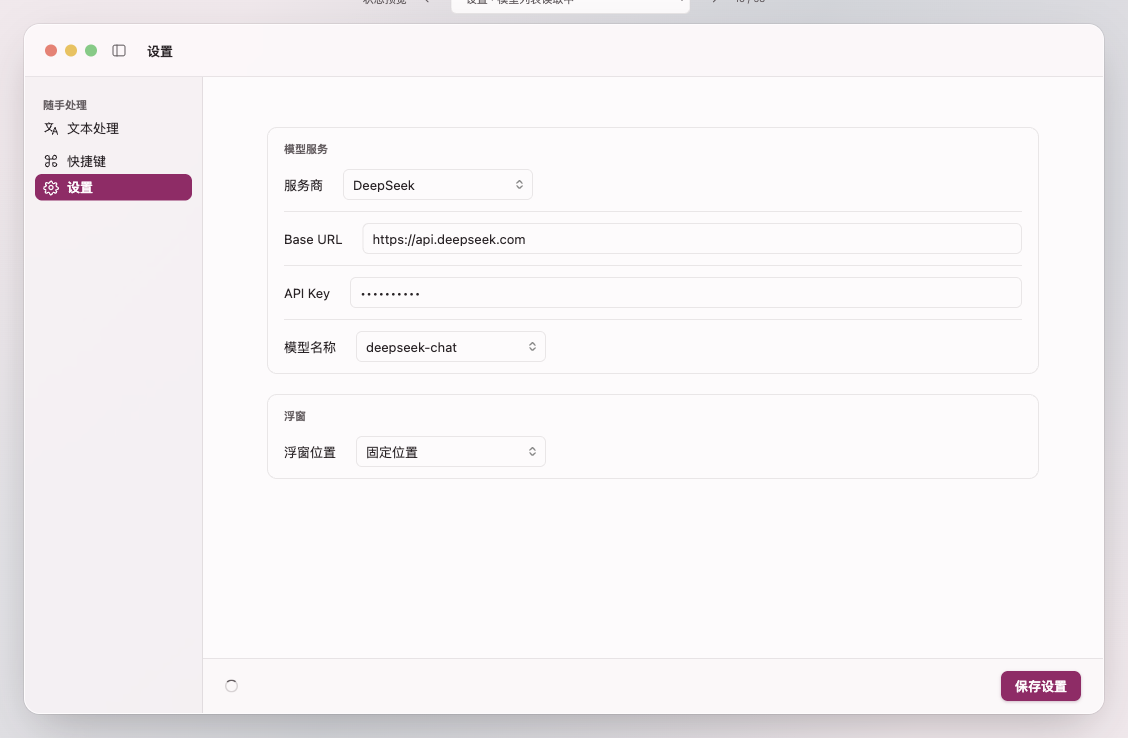
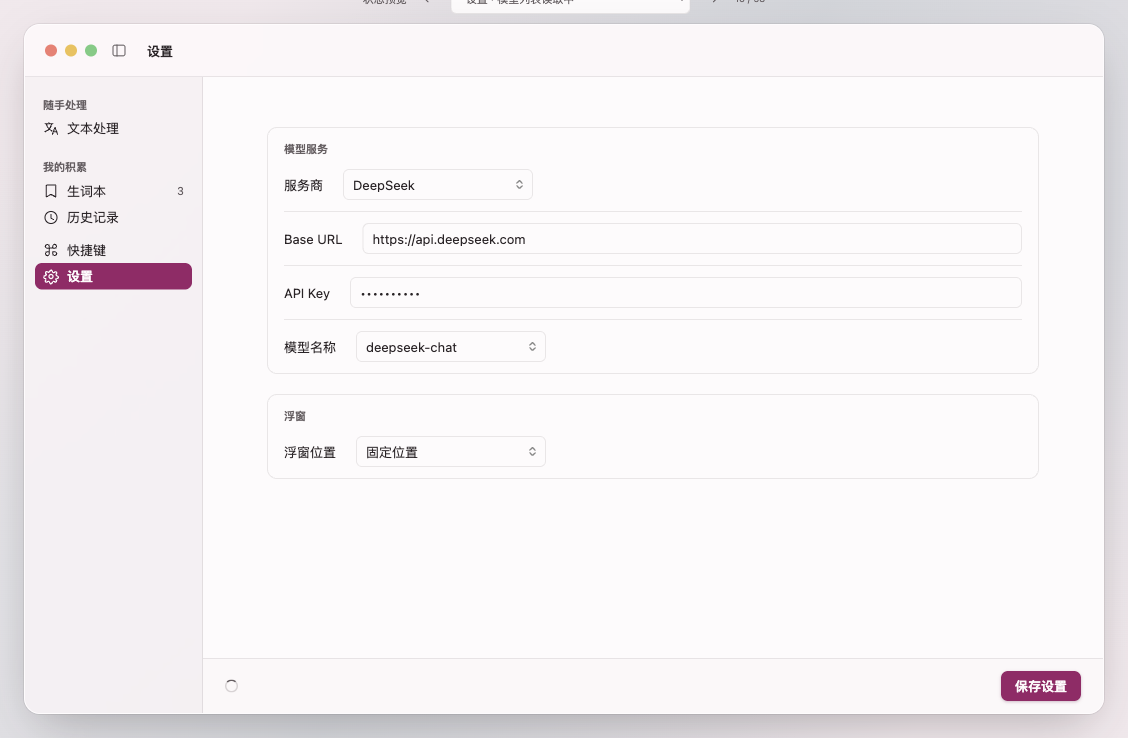
design: show the target sidebar on every screen
The sidebar carried 生词本 and 历史记录 only on the proposal screens, so
every screen for the shipped features showed three tabs and looked like a
different app from the one next to it. The design describes where the
product is going, and an incomplete sidebar is a bad way to say that some
of it is not built yet — progress belongs in the badge and the documents.

Every screen now shows the same navigation: 随手处理 › 文本处理,
我的积累 › 生词本 · 历史记录, then 快捷键 and 设置. The divergence is
recorded in the unimplemented list, and all 58 screenshots are regenerated.

Changed region(s): [[0.031, 0.187, 0.1862, 0.4051]]

diff --git a/design/index.html b/design/index.html
@@ -531,9 +531,11 @@ function sample(k){which=k;external=inputText();render()}
 // ---------- 应用窗口 ----------
 function sidebarHTML(){
   const row=(p,label,glyph,count)=>`<button class="nav ${appPage===p?'active':''}" aria-current="${appPage===p?'page':'false'}" onclick="openApp('${p}')">${icon(glyph)}<span>${label}</span>${count?`<span class="count">${count}</span>`:''}</button>`;
-  // 生词本与历史是提案页面：只在提案状态里出现，已实现状态的侧栏保持原样。
-  const library=cfg().proposal?`<p class="section-label">我的积累</p><nav class="navgroup" aria-label="个人内容">${row('book','生词本','book',BOOK.length)}${row('history','历史记录','clock')}</nav>`:'';
-  return `<p class="section-label">随手处理</p><nav class="navgroup" aria-label="文本操作">${row('processing','文本处理','translate')}</nav>${library}<nav class="navgroup" aria-label="应用">${row('shortcuts','快捷键','keyboard')}${row('settings','设置','gear')}</nav>`;
+  // 所有画面共用目标侧边栏，包括尚未实现的生词本与历史记录：设计图描述要去的地方，实现进度由
+  // 徽标和文档说明，而不是靠画一张不完整的侧栏来表达。
+  return `<p class="section-label">随手处理</p><nav class="navgroup" aria-label="文本操作">${row('processing','文本处理','translate')}</nav>`
+   +`<p class="section-label">我的积累</p><nav class="navgroup" aria-label="个人内容">${row('book','生词本','book',BOOK.length)}${row('history','历史记录','clock')}</nav>`
+   +`<nav class="navgroup" aria-label="应用">${row('shortcuts','快捷键','keyboard')}${row('settings','设置','gear')}</nav>`;
 }
 function appbarHTML(){
   const titles={processing:'文本处理',shortcuts:'快捷键',settings:'设置',book:'生词本',history:'历史记录'};

diff --git a/docs/unimplemented-features.md b/docs/unimplemented-features.md
@@ -31,6 +31,7 @@
 
 - **玫瑰品牌色没有接到应用强调色。** 工程里没有 `AccentColor` 资源，也没有任何 `.tint()`；`ASSETCATALOG_COMPILER_APPICON_NAME: OwletIcon` 与目录中的 `AppIcon.appiconset` 名称还不一致。因此 `.glassProminent` 按钮、侧栏选中与工具栏强调都跟随系统强调色（默认蓝色），不是设计图里的玫瑰色。证据：`ls Owlet/Assets.xcassets`、`project.yml`、`grep -rn "tint(\|AccentColor" Owlet/` 无命中。
 - **面板与菜单栏的 Owlet 标记在浅色玻璃上不可见。** `Image("OwletMark")` 用的是近白的 `mark-18.png`（中心像素约 252,255,255，四角透明），资源又是 `template-rendering-intent: original`，所以 `ExpandedPanel` 与 `OwletApp` 上的 `.foregroundStyle(.secondary)` 不生效，标记基本看不到。证据：`Owlet/Assets.xcassets/OwletMark.imageset/Contents.json`、`Owlet/App/ExpandedPanel.swift`、`Owlet/App/OwletApp.swift`。设计图按此如实画出，未美化。
+- **所有设计图的侧边栏都按目标画出，含尚未实现的「生词本」与「历史记录」。** 设计图描述目标形态，因此侧栏统一是「随手处理 › 文本处理」「我的积累 › 生词本 · 历史记录」「快捷键 · 设置」；实现目前只有文本处理、快捷键与设置三个页面，生词本与历史记录两个入口点了没有页面。每个画面的实现进度由「未实现」徽标与本文说明，不靠画一张不完整的侧栏来表达。
 - **菜单栏没有为每个工具栏项提供命令与快捷键。** 菜单栏只有打开主界面、三个快捷键状态、`设置… (⌘,)` 与退出。面板自己的三个键（`⌘↩`、`⌘⇧C`、`Esc`）不受此影响：它们画在按钮上、由 `FloatingPanel` 的按键监听执行，并列在快捷键页的「面板内」分组。
 - **同一布局下的其它错误文案没有单独出图。** 紧凑条与面板行内提示复用同一个组件：`ModelError` 的 `emptyResponse`／`truncated`／`refused`（`The service returned an empty response.`、`The result was too long and got truncated.`、`The service refused to process this text.`）与快捷键注册失败的 `该组合已被系统或其他应用占用，请换一个。`、`快捷键注册失败（…）。` 都只是文案不同。设计图各取一个代表状态（`format-error`、`result-notice`、`shortcuts-conflict`）。
 - **已展开且原文为空时，头部没有重新处理、动作行没有主操作。** `canRetry` 要求原文非空，因此该组合下 `PanelHeader` 不显示刷新按钮、`PanelFooter` 的默认分支也不渲染按钮。清空原文栏即可到达该界面，设计图见 [empty](../design/screenshots/empty.png)。证据：`Owlet/App/ExpandedPanel.swift` 的 `canRetry`。

diff --git a/README.md b/README.md
@@ -20,7 +20,7 @@ macOS 26+ 翻译、润色与个人生词本。
 
 原型使用中英日内置样例：翻译、润色、快捷键录制、设置与菜单栏入口是已实现的功能；生词本、历史、学习表达、逐句对照、Prompt 编辑、写回完成确认与响应式双栏尚未实现，以提案画面呈现，画面上带“未实现”徽标并各自成区，见 [未实现功能清单](docs/unimplemented-features.md)。展开面板的「替换」把模拟原选区改成译文；`direct-loading` 用状态文字表示“翻译并替换…”。右上角可切换请求失败与未能写回场景。
 
-原型的窗口骨架与控件都已经换成 macOS 26 原生组件的外观：可收起的系统侧边栏，跨整窗的工具栏（目标语言弹出式按钮、翻译／润色分段控件），提交与复制仍在底部操作栏，内容区的分组表单与内联状态提示。文本处理页的原文与译文始终上下堆叠（原生实现为单列 `VStack`）；响应式的左右并排未实现，提案画面为 `workspace-narrow`，见 [未实现功能清单](docs/unimplemented-features.md)。每个组件到原生 SwiftUI / AppKit 组件的对照见 [Liquid Glass 组件对照](docs/liquid-glass-components.md)；其中三处例外只有两处已实现，另一处仍是待做设计。
+原型所有画面的侧边栏都是目标形态（含尚未实现的生词本与历史记录），实现进度由徽标与文档说明。原型的窗口骨架与控件都已经换成 macOS 26 原生组件的外观：可收起的系统侧边栏，跨整窗的工具栏（目标语言弹出式按钮、翻译／润色分段控件），提交与复制仍在底部操作栏，内容区的分组表单与内联状态提示。文本处理页的原文与译文始终上下堆叠（原生实现为单列 `VStack`）；响应式的左右并排未实现，提案画面为 `workspace-narrow`，见 [未实现功能清单](docs/unimplemented-features.md)。每个组件到原生 SwiftUI / AppKit 组件的对照见 [Liquid Glass 组件对照](docs/liquid-glass-components.md)；其中三处例外只有两处已实现，另一处仍是待做设计。
 
 界面文案的三条规则（动作区只放动作，不放解释性文字；不把快捷键画进界面；按钮只用动词，宾语交给上下文）仍是提案：当前文本处理页在“原文”右侧画 `⌘ V 粘贴`，浮动面板动作行左端显示快捷键提示，按钮读作 `翻译文本` / `润色文本` / `保存设置`。规则原文与差异见 [视觉与交互规则](spec/DESIGN.md)。
 
